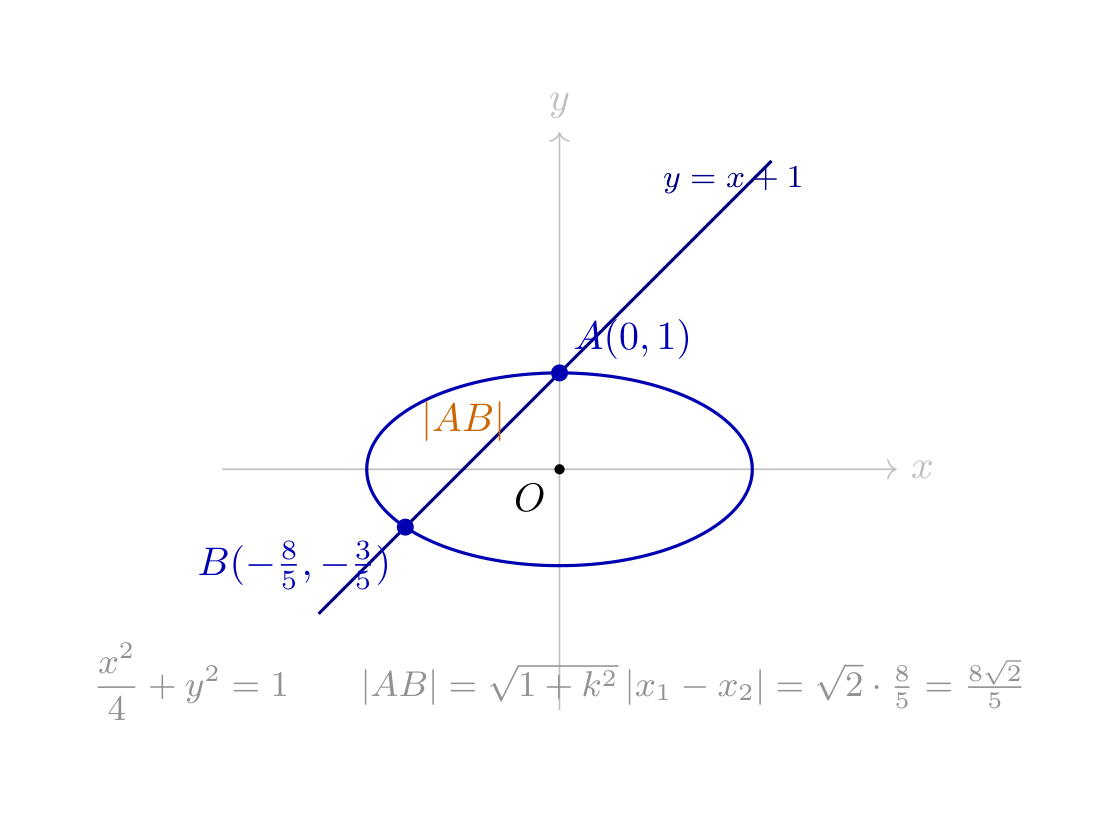
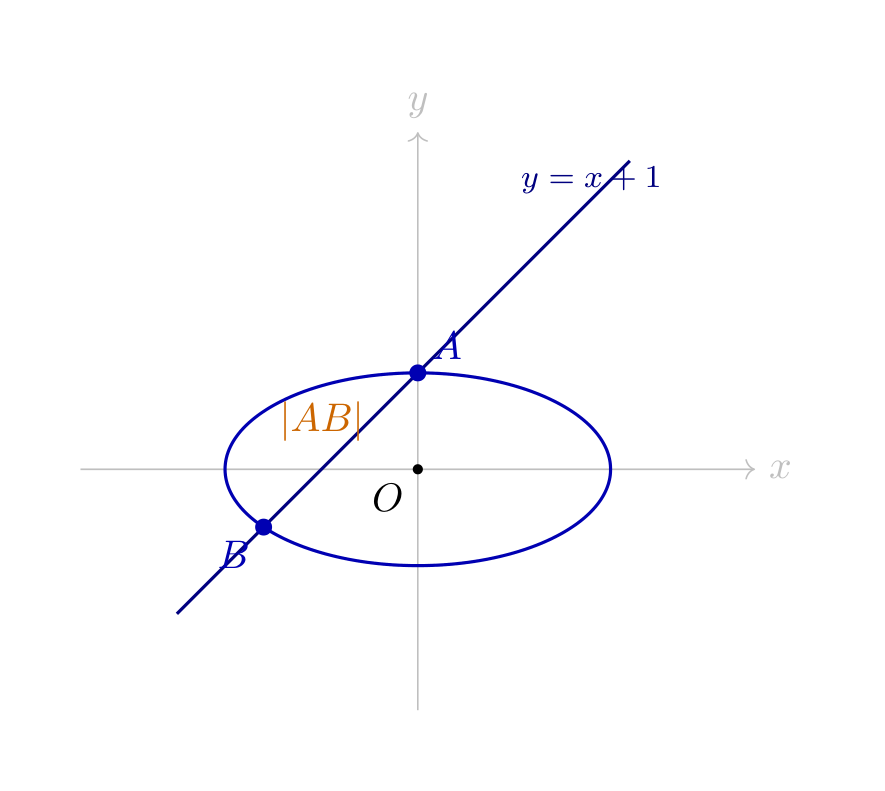
fix: 移除图片figcaption + 精简TikZ图标注（纯几何+字母）

diff --git a/app/src/components/node/LectureView.tsx b/app/src/components/node/LectureView.tsx
@@ -120,27 +120,14 @@ function lectureMarkdown(text: string): string {
     // Image: ![alt](url)
     const imgMatch = trimmed.match(/^!\[(.*)\]\((.+)\)$/);
     if (imgMatch) {
-      const alt = imgMatch[1] || '';
+      const altRaw = imgMatch[1] || '';
       const rawSrc = imgMatch[2];
       const src = rawSrc.startsWith('/') ? import.meta.env.BASE_URL.replace(/\/$/, '') + rawSrc : rawSrc;
-      // Render LaTeX in figcaption
-      let figHtml = '';
-      if (alt) {
-        figHtml = alt;
-        try {
-          figHtml = figHtml.replace(/\$\$([\s\S]*?)\$\$/g, (_, f: string) =>
-            katex.renderToString(f.trim(), { displayMode: true, throwOnError: false })
-          ).replace(/\$(.*?)\$/g, (_, f: string) =>
-            katex.renderToString(f.trim(), { displayMode: false, throwOnError: false })
-          );
-        } catch { /* keep raw */ }
-        figHtml = `<figcaption class="text-text-dim text-xs mt-2">${figHtml}</figcaption>`;
-      }
-      const plainAlt = alt.replace(/\$\$[\s\S]*?\$\$/g, '').replace(/\$(.*?)\$/g, '$1').trim();
+      // Strip LaTeX markers for clean alt text
+      const plainAlt = altRaw.replace(/\$[^$]*\$/g, '').replace(/\s+/g, ' ').trim();
       result.push(
         `<figure class="my-5 text-center">` +
         `<img src="${src}" alt="${plainAlt}" loading="lazy" class="max-w-full h-auto rounded-xl border border-white/10 hover:border-primary/25 transition-all duration-300 cursor-pointer" />` +
-        figHtml +
         `</figure>`
       );
       i++;

diff --git a/app/src/components/question/QuestionCard.tsx b/app/src/components/question/QuestionCard.tsx
@@ -17,20 +17,9 @@ const diffConfig = [
 ];
 
 function renderContent(text: string): string {
-  let html = text.replace(/!\[(.*?)\]\((.+?)\)/g, (_, alt, src) => {
+  let html = text.replace(/!\[.*?\]\((.+?)\)/g, (_, src) => {
     const resolvedSrc = src.startsWith('/') ? import.meta.env.BASE_URL.replace(/\/$/, '') + src : src;
-    // Render LaTeX in figcaption
-    let figHtml = alt;
-    try {
-      figHtml = figHtml.replace(/\$\$([\s\S]*?)\$\$/g, (_m: string, f: string) =>
-        katex.renderToString(f.trim(), { displayMode: true, throwOnError: false })
-      ).replace(/\$(.*?)\$/g, (_m: string, f: string) =>
-        katex.renderToString(f.trim(), { displayMode: false, throwOnError: false })
-      );
-    } catch { /* keep raw alt text */ }
-    // Strip LaTeX markers from alt attribute for accessibility
-    const plainAlt = alt.replace(/\$\$[\s\S]*?\$\$/g, '').replace(/\$(.*?)\$/g, '$1').trim();
-    return `<figure class="my-3 text-center"><img src="${resolvedSrc}" alt="${plainAlt}" loading="lazy" class="max-w-full h-auto rounded-xl border border-white/10 hover:border-primary/30 transition-colors" /><figcaption class="text-text-dim text-xs mt-1.5">${figHtml}</figcaption></figure>`;
+    return `<div class="my-3 text-center"><img src="${resolvedSrc}" alt="" loading="lazy" class="max-w-full h-auto rounded-xl border border-white/10 hover:border-primary/30 transition-colors" /></div>`;
   });
   html = html.replace(/\$\$([\s\S]*?)\$\$/g, (_, formula) => {
     try {

diff --git a/app/public/figures/q-2.2-hard-1.tex b/app/public/figures/q-2.2-hard-1.tex
@@ -28,17 +28,14 @@
   \draw pic["$30^\circ$", draw=orange!80!black, thick, angle eccentricity=1.6, angle radius=22] {angle=P--F2--F1};
 
   % Points
-  \fill[red!70!black]  (F1) circle (2.5pt) node[below] {$F_1(-\sqrt3,0)$};
-  \fill[red!70!black]  (F2) circle (2.5pt) node[below] {$F_2(\sqrt3,0)$};
-  \fill[blue!70!black] (P)  circle (2.5pt) node[above] {$P(0,1)$};
+  \fill[red!70!black]  (F1) circle (2.5pt) node[below] {$F_1$};
+  \fill[red!70!black]  (F2) circle (2.5pt) node[below] {$F_2$};
+  \fill[blue!70!black] (P)  circle (2.5pt) node[above] {$P$};
   \fill[black]         (O)  circle (1.5pt) node[below left] {$O$};
 
   % Labels
-  \node[blue!50!black] at (-1.0, 0.6) {$r_1=2$};
-  \node[blue!50!black] at (1.0, 0.6)  {$r_2=2$};
-  \node[gray] at (0, -0.3) {$2c=2\sqrt3$};
-
-  \node[text=gray, font=\small, align=center] at (0, -2.2)
-    {$e=\dfrac{\sqrt3}{2}\quad\dfrac{x^2}{4}+y^2=1\quad S_{\triangle}=\sqrt3\quad r_1=r_2=2$};
+  \node[blue!50!black] at (-1.0, 0.6) {$r_1$};
+  \node[blue!50!black] at (1.0, 0.6)  {$r_2$};
+  \node[gray] at (0, -0.3) {$2c$};
 \end{tikzpicture}
 \end{document}

diff --git a/app/public/figures/q-3.4-mid-1.tex b/app/public/figures/q-3.4-mid-1.tex
@@ -32,8 +32,8 @@
   \draw[thick, blue!50!black, fill=blue!5] (F1) -- (A) -- (B) -- cycle;
 
   % Points
-  \fill[red!70!black]  (F1) circle (2.5pt) node[below left]  {$F_1(-1,0)$};
-  \fill[red!70!black]  (F2) circle (2.5pt) node[below right] {$F_2(1,0)$};
+  \fill[red!70!black]  (F1) circle (2.5pt) node[below left]  {$F_1$};
+  \fill[red!70!black]  (F2) circle (2.5pt) node[below right] {$F_2$};
   \fill[blue!70!black] (A)  circle (2.5pt) node[above right] {$A$};
   \fill[blue!70!black] (B)  circle (2.5pt) node[below left]  {$B$};
   \fill[black]         (O)  circle (1.5pt) node[below left]  {$O$};
@@ -41,8 +41,5 @@
   % Labels
   \node[orange!80!black] at (1.0, -0.4) {$|AB|$};
   \node[gray, font=\small] at (0.5, 0.5) {$\triangle F_1AB$};
-
-  \node[text=gray, font=\small, align=center] at (0, -2.8)
-    {$\dfrac{x^2}{4}+\dfrac{y^2}{3}=1\qquad |AB|=\dfrac{24}{7}\quad S_{\triangle F_1AB}=\dfrac{12\sqrt2}{7}$};
 \end{tikzpicture}
 \end{document}

diff --git a/app/public/figures/q-2.2-easy-1.tex b/app/public/figures/q-2.2-easy-1.tex
@@ -28,17 +28,14 @@
   \draw pic["$60^\circ$", draw=orange!80!black, thick, angle eccentricity=1.5, angle radius=22] {angle=F1--P--F2};
 
   % Points
-  \fill[red!70!black]  (F1) circle (2.5pt) node[below] {$F_1(-4,0)$};
-  \fill[red!70!black]  (F2) circle (2.5pt) node[below] {$F_2(4,0)$};
+  \fill[red!70!black]  (F1) circle (2.5pt) node[below] {$F_1$};
+  \fill[red!70!black]  (F2) circle (2.5pt) node[below] {$F_2$};
   \fill[blue!70!black] (P)  circle (2.5pt) node[above right] {$P$};
   \fill[black]         (O)  circle (1.5pt) node[below left]  {$O$};
 
   % Labels
   \node[blue!50!black] at (-0.5, 1.5) {$r_1$};
   \node[blue!50!black] at (4.0, 1.0)  {$r_2$};
-  \node[gray] at (0, -0.5) {$2c=8$};
-
-  \node[text=gray, font=\small] at (0, -4.0)
-    {$\dfrac{x^2}{25}+\dfrac{y^2}{9}=1\qquad S=b^2\tan30^\circ=9\cdot\frac{1}{\sqrt3}=3\sqrt3$};
+  \node[gray] at (0, -0.5) {$2c$};
 \end{tikzpicture}
 \end{document}

diff --git a/app/public/figures/q-2.2-mid-1.tex b/app/public/figures/q-2.2-mid-1.tex
@@ -30,17 +30,14 @@
   \draw[orange!80!black, thick] (PA) -- ($(PA)!(P)!(PB)$) -- (PB);
 
   % Points
-  \fill[red!70!black]  (F1) circle (2.5pt) node[below] {$F_1(-4,0)$};
-  \fill[red!70!black]  (F2) circle (2.5pt) node[below] {$F_2(4,0)$};
+  \fill[red!70!black]  (F1) circle (2.5pt) node[below] {$F_1$};
+  \fill[red!70!black]  (F2) circle (2.5pt) node[below] {$F_2$};
   \fill[blue!70!black] (P)  circle (2.5pt) node[above right] {$P$};
   \fill[black]         (O)  circle (1.5pt) node[below left]  {$O$};
 
   % Labels
   \node[blue!50!black] at (-0.2, 1.2) {$r_1$};
   \node[blue!50!black] at (3.8, 1.5)  {$r_2$};
-  \node[gray] at (0, -0.5) {$2c=8$};
-
-  \node[text=gray, font=\small, align=center] at (0, -4.2)
-    {$\angle F_1PF_2=90^\circ\quad r_1^2+r_2^2=(2c)^2\quad S_{\triangle}=b^2=9$};
+  \node[gray] at (0, -0.5) {$2c$};
 \end{tikzpicture}
 \end{document}

diff --git a/app/public/figures/q-2.3-easy-2.tex b/app/public/figures/q-2.3-easy-2.tex
@@ -31,15 +31,11 @@
   \draw[thick, orange!80!black, dashed] (Q1) -- (Q2);
 
   % Points
-  \fill[blue!70!black] (Q1) circle (2.5pt) node[below right] {$Q_1(3,0)$};
-  \fill[blue!70!black] (Q2) circle (2.5pt) node[above left]  {$Q_2(0,2)$};
-  \fill[red!70!black]  (P)  circle (2.5pt) node[right]       {$P(3,2)$};
+  \fill[blue!70!black] (Q1) circle (2.5pt) node[below right] {$Q_1$};
+  \fill[blue!70!black] (Q2) circle (2.5pt) node[above left]  {$Q_2$};
+  \fill[red!70!black]  (P)  circle (2.5pt) node[right]       {$P$};
 
   % Origin
   \fill[black] (0,0) circle (1.5pt) node[below left] {$O$};
-
-  % Chord equation
-  \node[text=gray, font=\small, align=center] at (0.5, -3.2)
-    {$\dfrac{x^2}{9}+\dfrac{y^2}{4}=1\qquad$ 切点弦：$\dfrac{3x}{9}+\dfrac{2y}{4}=1$ 即 $2x+3y=6$};
 \end{tikzpicture}
 \end{document}

diff --git a/app/public/figures/q-3.4-easy-1.tex b/app/public/figures/q-3.4-easy-1.tex
@@ -23,17 +23,13 @@
   \node[blue!50!black, font=\footnotesize] at (1.8, 3.0) {$y=x+1$};
 
   % Points
-  \fill[blue!70!black] (A) circle (2.5pt) node[above right] {$A(0,1)$};
-  \fill[blue!70!black] (B) circle (2.5pt) node[below left]  {$B(-\frac{8}{5},-\frac{3}{5})$};
+  \fill[blue!70!black] (A) circle (2.5pt) node[above right] {$A$};
+  \fill[blue!70!black] (B) circle (2.5pt) node[below left]  {$B$};
 
   % Origin
   \fill[black] (0,0) circle (1.5pt) node[below left] {$O$};
 
   % Chord length label
   \node[orange!80!black] at (-1.0, 0.5) {$|AB|$};
-
-  % Formula
-  \node[text=gray, font=\small, align=center] at (0, -2.2)
-    {$\dfrac{x^2}{4}+y^2=1\qquad |AB|=\sqrt{1+k^2}\,|x_1-x_2|=\sqrt2\cdot\frac{8}{5}=\frac{8\sqrt2}{5}$};
 \end{tikzpicture}
 \end{document}

diff --git a/app/public/figures/q-2.2-easy-2.tex b/app/public/figures/q-2.2-easy-2.tex
@@ -36,11 +36,8 @@
   \draw[blue!50!black, thin, dashed] (A) -- (4.2, 6.4);
 
   % Points
-  \fill[red!70!black]  (F) circle (2.5pt) node[below left] {$F(1,0)$};
-  \fill[blue!70!black] (A) circle (2.5pt) node[above right] {$A(x_1,y_1)$};
-  \fill[blue!70!black] (B) circle (2.5pt) node[below right] {$B(x_2,y_2)$};
-
-  % Label
-  \node[gray, font=\small] at (2.5, -3.8) {$y^2=4x\qquad y_1y_2=-4,\;x_1x_2=1$};
+  \fill[red!70!black]  (F) circle (2.5pt) node[below left] {$F$};
+  \fill[blue!70!black] (A) circle (2.5pt) node[above right] {$A$};
+  \fill[blue!70!black] (B) circle (2.5pt) node[below right] {$B$};
 \end{tikzpicture}
 \end{document}

diff --git a/app/public/figures/q-2.3-easy-1.tex b/app/public/figures/q-2.3-easy-1.tex
@@ -24,16 +24,12 @@
   \draw[thick, green!60!black] (T1) -- (T2);
 
   % Points
-  \fill[blue!70!black] (P) circle (2.5pt) node[above right] {$P(3,\frac{16}{5})$};
+  \fill[blue!70!black] (P) circle (2.5pt) node[above right] {$P$};
 
   % Radius line from O to P (dashed)
   \draw[gray!50, dashed, thin] (0,0) -- (P);
 
   % Origin
   \fill[black] (0,0) circle (1.5pt) node[below left] {$O$};
-
-  % Tangent equation
-  \node[text=gray, font=\small, align=center] at (0, -5.0)
-    {$\dfrac{x^2}{25}+\dfrac{y^2}{16}=1\qquad$ 切线：$\dfrac{3x}{25}+\dfrac{3.2y}{16}=1$ 即 $3x+5y=25$};
 \end{tikzpicture}
 \end{document}
